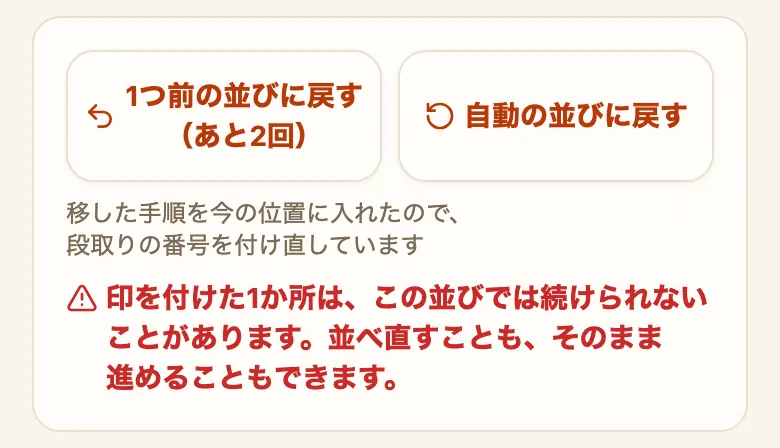
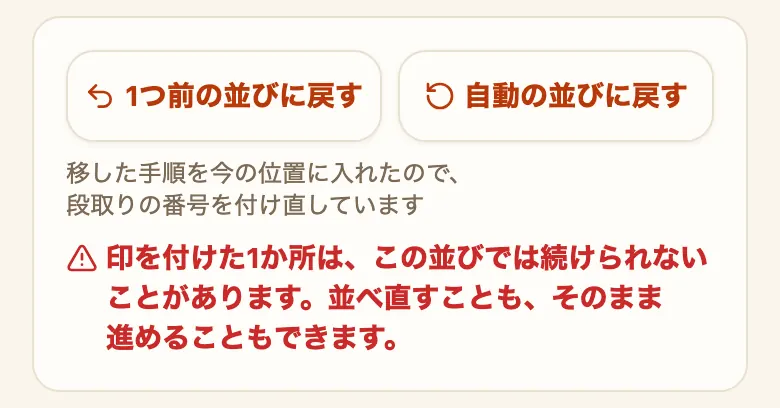
説明書の絵を4便のあとの画面で撮り直す（便KR-3）
便KS・KT・KU・KV が画面を変えたので全40カットを撮り直した（13枚が実際に変わった）。
`cooknavi-finish` は便KTが節ごと消したので撮影の対象から外れている。

撮影の台本で2か所、掴めなくなっていたものを直した:
- **貼り付け**: 便KS・⑦で料理名も置き換えの対象になり、**料理名を入れただけでも
  規約Fの確認の窓が出る**ようになった。台本が窓を通していなかったため、
  そこから先のカットが1枚も撮れないまま10秒待ちで落ちていた
- **概算食費**: 便KUが「栄養と食費」の節へ入れ、**自前の折りたたみは廃止**した
  （開くのに2回押させない）。節を先に開き、掴む先もボタンから見出しの文字へ変えた

図の width/height を撮影の控えに合わせた（manual.html 6件・index.html 1件）。

`npx tsc -b` OK / `npm test` 6,413件 + 62件 合格 / `npm run build` OK

diff --git a/public/about/manual.html b/public/about/manual.html
@@ -721,7 +721,7 @@
     </ol>
 
     <figure class="shot" style="--w:390px">
-      <img src="/about/img/manual/paste.webp" width="780" height="780" loading="lazy" decoding="async" alt="テキスト貼り付けの欄。貼り付けた文章の下に「材料4件・手順3件を読み取りました。内容を確認して修正してください。調理時間は貼り付けた文章に書かれていなかったので、調理時間の欄は空のままです。」と出て、その下に合わせ調味料の色分けについての案内が続いている">
+      <img src="/about/img/manual/paste.webp" width="780" height="788" loading="lazy" decoding="async" alt="テキスト貼り付けの欄。貼り付けた文章の下に「材料4件・手順3件を読み取りました。内容を確認して修正してください。調理時間は貼り付けた文章に書かれていなかったので、調理時間の欄は空のままです。」と出て、その下に合わせ調味料の色分けについての案内が続いている">
       <figcaption>貼り付けて「自動で振り分ける」を押すと、読み取った件数が出ます</figcaption>
     </figure>
 
@@ -757,7 +757,7 @@
     <p>貼り付け・URLのどちらで取り込んでも、<strong>絞り込みに使う項目は自動入力されません</strong>（レシピの文章に書かれていないためです）。取り込みが終わると「取り込みで自動入力されない項目」の欄が出るので、保存する前に選んでおけます。</p>
 
     <figure class="shot" style="--w:390px">
-      <img src="/about/img/manual/import-gaps.webp" width="780" height="1176" loading="lazy" decoding="async" alt="取り込みのあとに出る「取り込みで自動入力されない項目」の欄。「「保存する」を押すまで、レシピは登録されません」の1行と説明、「今後表示しない」のボタンの下に、「料理のジャンル」（和食・洋食・中華）、「季節」（春・夏・秋・冬）、「向いている時間帯」（朝食・昼食・夕食）、「手間レベル」（超簡単・普通・手の込んだ）のボタンが並んでいる">
+      <img src="/about/img/manual/import-gaps.webp" width="780" height="1352" loading="lazy" decoding="async" alt="取り込みのあとに出る「取り込みで自動入力されない項目」の欄。「「保存する」を押すまで、レシピは登録されません」の1行と説明、「今後表示しない」のボタンの下に、「料理のジャンル」（和食・洋食・中華）、「季節」（春・夏・秋・冬）、「向いている時間帯」（朝食・昼食・夕食）、「手間レベル」（超簡単・普通・手の込んだ）のボタンが並んでいる">
       <figcaption>取り込みが終わると、入らなかった項目だけが並びます</figcaption>
     </figure>
 
@@ -834,7 +834,7 @@
     </ul>
 
     <figure class="shot" style="--w:390px">
-      <img src="/about/img/manual/plan-day-buttons.webp" width="780" height="928" loading="lazy" decoding="async" alt="献立の「日」の「今日の献立」。見出しの横に「整理」のボタンがあり、「今週の献立の予定」「夕食」の下に、絵・料理名・調理時間・手間レベルの入ったカードが2枚縦に並び、その下に「レシピ一覧から追加」と「並行調理ナビ」の行がある">
+      <img src="/about/img/manual/plan-day-buttons.webp" width="780" height="900" loading="lazy" decoding="async" alt="献立の「日」の「今日の献立」。見出しの横に「整理」のボタンがあり、「今週の献立の予定」「夕食」の下に、絵・料理名・調理時間・手間レベルの入ったカードが2枚縦に並び、その下に「レシピ一覧から追加」と「並行調理ナビ」の行がある">
       <figcaption>「今日の献立」のふだんの表示。「整理」を押すと、品ごとの「作った！」と「×」が出ます</figcaption>
     </figure>
 
@@ -849,7 +849,7 @@
     <p>どちらでも、出てきた料理はボタンの上に並びます。料理名を押すとレシピが開きます。切り替えた側は覚えているので、次に開いたときも同じ側から始まります。</p>
 
     <figure class="shot" style="--w:390px">
-      <img src="/about/img/manual/day-suggest.webp" width="780" height="1120" loading="lazy" decoding="async" alt="献立の「日」の「今日なに作る？」。見出しの下に「1品」「献立」の切り替えがあり、「献立」が選ばれている。その下に「条件をしぼる」のボタン、「おまかせで献立を組む」のボタン、提案された主菜と副菜のカード、組み方の説明と主菜の候補の品数、「今日の献立に入れる」のボタンが縦に並んでいる">
+      <img src="/about/img/manual/day-suggest.webp" width="780" height="1148" loading="lazy" decoding="async" alt="献立の「日」の「今日なに作る？」。見出しの下に「1品」「献立」の切り替えがあり、「献立」が選ばれている。その下に「条件をしぼる」のボタン、「おまかせで献立を組む」のボタン、提案された主菜と副菜のカード、組み方の説明と主菜の候補の品数、「今日の献立に入れる」のボタンが縦に並んでいる">
       <figcaption>「今日なに作る？」。「1品」と「献立」を切り替えても、出てきた料理・ボタン・「今日の献立に入れる」の並びは同じです</figcaption>
     </figure>
 
@@ -1085,7 +1085,7 @@
     </ul>
 
     <figure class="shot" style="--w:390px">
-      <img src="/about/img/manual/cost-week.webp" width="780" height="532" loading="lazy" decoding="async" alt="献立の「週」の画面の「表示している週の概算食費」を開いたところ。金額と食数、計算のもとにした期間、「食材と価格を編集する」のリンクが出ている">
+      <img src="/about/img/manual/cost-week.webp" width="780" height="598" loading="lazy" decoding="async" alt="献立の「週」の画面の「表示している週の概算食費」を開いたところ。金額と食数、計算のもとにした期間、「食材と価格を編集する」のリンクが出ている">
       <figcaption>「表示している週の概算食費」。何をもとに計算しているかも一緒に出ます</figcaption>
     </figure>
 
@@ -1354,7 +1354,7 @@
     <p>印が付いているときは、手順が並ぶすぐ上に<strong>「印を付けた◯か所は、この並びでは続けられないことがあります。並べ直すことも、そのまま進めることもできます。」</strong>と出ます。</p>
 
     <figure class="shot" style="--w:390px">
-      <img src="/about/img/manual/cooknavi-reorder-undo.webp" width="780" height="448" loading="lazy" decoding="async" alt="手順が並ぶすぐ上の欄。「1つ前の並びに戻す」「自動の並びに戻す」の2つのボタンが並び、その下に「移した手順を今の位置に入れたので、段取りの番号を付け直しています」と、三角の注意マークつきで「印を付けた1か所は、この並びでは続けられないことがあります。並べ直すことも、そのまま進めることもできます。」と書かれている">
+      <img src="/about/img/manual/cooknavi-reorder-undo.webp" width="780" height="408" loading="lazy" decoding="async" alt="手順が並ぶすぐ上の欄。「1つ前の並びに戻す」「自動の並びに戻す」の2つのボタンが並び、その下に「移した手順を今の位置に入れたので、段取りの番号を付け直しています」と、三角の注意マークつきで「印を付けた1か所は、この並びでは続けられないことがあります。並べ直すことも、そのまま進めることもできます。」と書かれている">
       <figcaption>動かしたあとだけ出る欄。押した回数ぶん1つずつ戻せます</figcaption>
     </figure>
 

diff --git a/public/about/index.html b/public/about/index.html
@@ -673,7 +673,7 @@
     <h3>2. 文章を貼り付ける</h3>
     <p>材料と作り方がまとまった文章を貼ると、<strong>材料と手順に自動で振り分けます</strong>。URLで取り込めなかったページも、文章を貼れば登録できます。</p>
     <figure class="shot" style="--w: 390px;">
-      <img src="/about/img/manual/paste.webp" width="780" height="780" loading="lazy" decoding="async" alt="テキスト貼り付けの欄。貼り付けた文章の下に「材料4件・手順3件を読み取りました。内容を確認して修正してください。調理時間は貼り付けた文章に書かれていなかったので、調理時間の欄は空のままです。」と読み取った結果が出ている">
+      <img src="/about/img/manual/paste.webp" width="780" height="788" loading="lazy" decoding="async" alt="テキスト貼り付けの欄。貼り付けた文章の下に「材料4件・手順3件を読み取りました。内容を確認して修正してください。調理時間は貼り付けた文章に書かれていなかったので、調理時間の欄は空のままです。」と読み取った結果が出ている">
       <figcaption>文章を貼れば、材料と手順に自動で振り分けます</figcaption>
     </figure>
 

diff --git a/CLAUDE.md b/CLAUDE.md
@@ -83,6 +83,7 @@
   # 既存行の書き換えは、行そのものを文字列置換で当てる（行番号で当てない）
   ```
   当てたあとは**必ず `npm test` と `npx tsc -b` の両方**を通す（片方だけだと、消えた節は型が通るので気づけない）。
+  **`git add -A` の前に必ず `git status --short | grep "^UU"` で未解決ファイルを全部出すこと。**マージの出力を `tail` で切ると競合の一覧が隠れる（2026-08-25に実発: `tail -8` で `scripts/e2e-smoke.mjs` の競合を見落とし、**競合マーカーごとコミット**した。`npx tsc -b` は `.mjs` を見ないので通ってしまい、`npm test` の acorn が構文で落ちて初めて分かった）。解決後は `grep -rln "^<<<<<<< HEAD"` で**リポジトリ全体**に取り残しが無いことも見る。
 - コミットメッセージは日本語（`main`push=本番公開の詳細はブランチ運用参照）。
 
 ## 収益設計の前提（現行の正。最新・詳細は docs/08 が一次参照）
